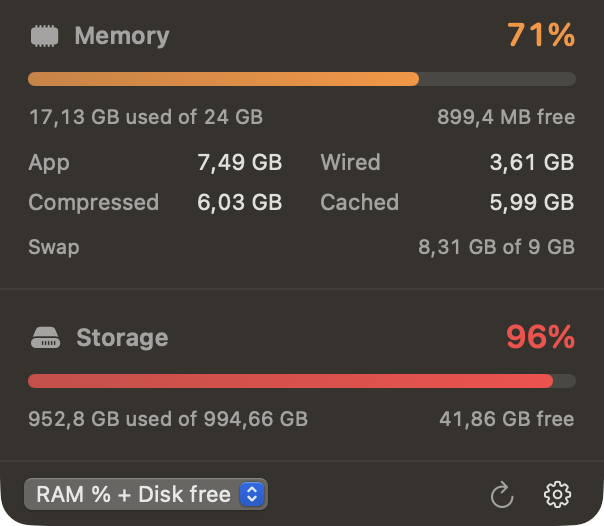
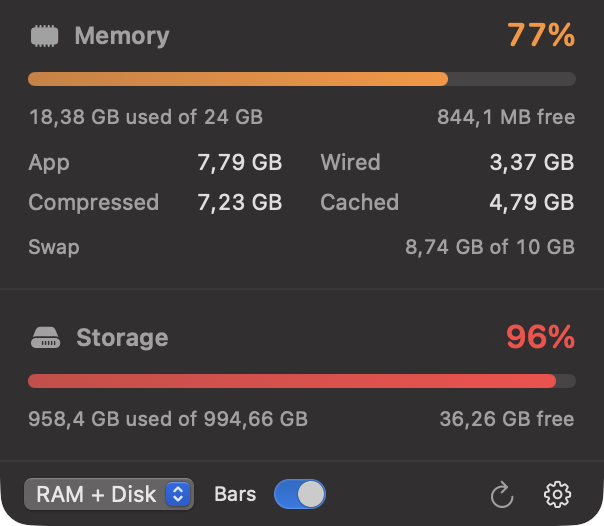
Make bar visualization the default with a Bars toggle for text mode

diff --git a/Sources/MacosPanel/MenuBarLabel.swift b/Sources/MacosPanel/MenuBarLabel.swift
@@ -19,11 +19,41 @@ enum MenuBarDisplay: String, CaseIterable, Identifiable {
 struct MenuBarLabel: View {
     @ObservedObject var monitor: SystemMonitor
     @AppStorage("menuBarDisplay") private var display: MenuBarDisplay = .both
+    @AppStorage("menuBarShowsBars") private var showsBars = true
 
     var body: some View {
-        Image(nsImage: MenuBarIcon.make(display: display, memory: monitor.snapshot.memory, volume: primaryVolume))
-            .renderingMode(.original)
-            .help(helpText)
+        Group {
+            if showsBars {
+                Image(nsImage: MenuBarIcon.make(display: display, memory: monitor.snapshot.memory, volume: primaryVolume))
+                    .renderingMode(.original)
+            } else {
+                Text(textLabel)
+                    .font(.system(size: 12, weight: .medium, design: .rounded))
+                    .monospacedDigit()
+            }
+        }
+        .help(helpText)
+    }
+
+    private var textLabel: String {
+        switch display {
+        case .both:
+            "RAM \(memoryText) · \(storageText) free"
+        case .memory:
+            "RAM \(memoryText)"
+        case .storage:
+            "\(storageText) free"
+        }
+    }
+
+    private var memoryText: String {
+        guard let memory = monitor.snapshot.memory else { return "—" }
+        return memory.usedFraction.percentText
+    }
+
+    private var storageText: String {
+        guard let volume = primaryVolume else { return "—" }
+        return ByteFormat.compactFree(volume.free)
     }
 
     private var primaryVolume: VolumeSnapshot? {

diff --git a/Sources/MacosPanel/PanelView.swift b/Sources/MacosPanel/PanelView.swift
@@ -5,6 +5,7 @@ struct PanelView: View {
     @ObservedObject var monitor: SystemMonitor
 
     @AppStorage("menuBarDisplay") private var display: MenuBarDisplay = .both
+    @AppStorage("menuBarShowsBars") private var showsBars = true
     @State private var launchAtLogin = LaunchAtLogin.isEnabled
     @State private var loginItemError: String?
 
@@ -66,6 +67,13 @@ struct PanelView: View {
             .labelsHidden()
             .controlSize(.small)
             .fixedSize()
+
+            Toggle("Bars", isOn: $showsBars)
+                .toggleStyle(.switch)
+                .controlSize(.mini)
+                .font(.caption)
+                .fixedSize()
+                .help("Show usage bars in the menu bar. Turn off for a text summary.")
 
             Spacer(minLength: 0)
 

diff --git a/README.md b/README.md
@@ -10,6 +10,8 @@ A small native macOS menu bar app that keeps RAM usage and free disk space visib
 
 - Menu bar item with two live bars: RAM used (with its percentage) and storage used
   (with the free space in GB), tinted green / orange / red as usage grows.
+- A **Bars** toggle in the panel footer switches the menu bar between that visualization
+  (the default) and a plain text label.
 - Click the item for a detail panel:
   - Memory used / free, App, Wired, Compressed, Cached, and swap.
   - Storage used / free for the boot volume plus any other local volumes.
@@ -45,7 +47,8 @@ open /Applications/MacosPanel.app
 ## Usage
 
 - Click the menu bar item to open the panel.
-- The picker in the panel footer chooses what the bar shows: RAM + Disk, RAM only, or Disk only.
+- The picker in the panel footer chooses what the menu bar shows: RAM + Disk, RAM only, or Disk only.
+- The **Bars** switch next to it toggles between the bar visualization (default) and a text label.
 - The gear menu has the refresh interval, **Launch at Login**, and **Quit**.
 - Preferences persist in `dev.olivermolnar.macos-panel`.
 
